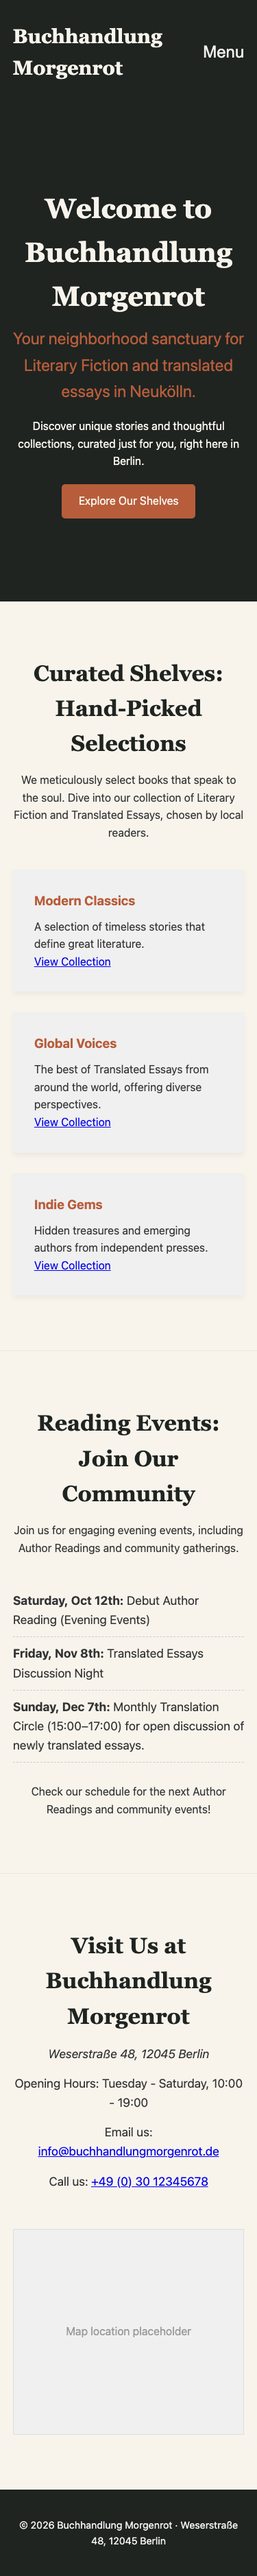
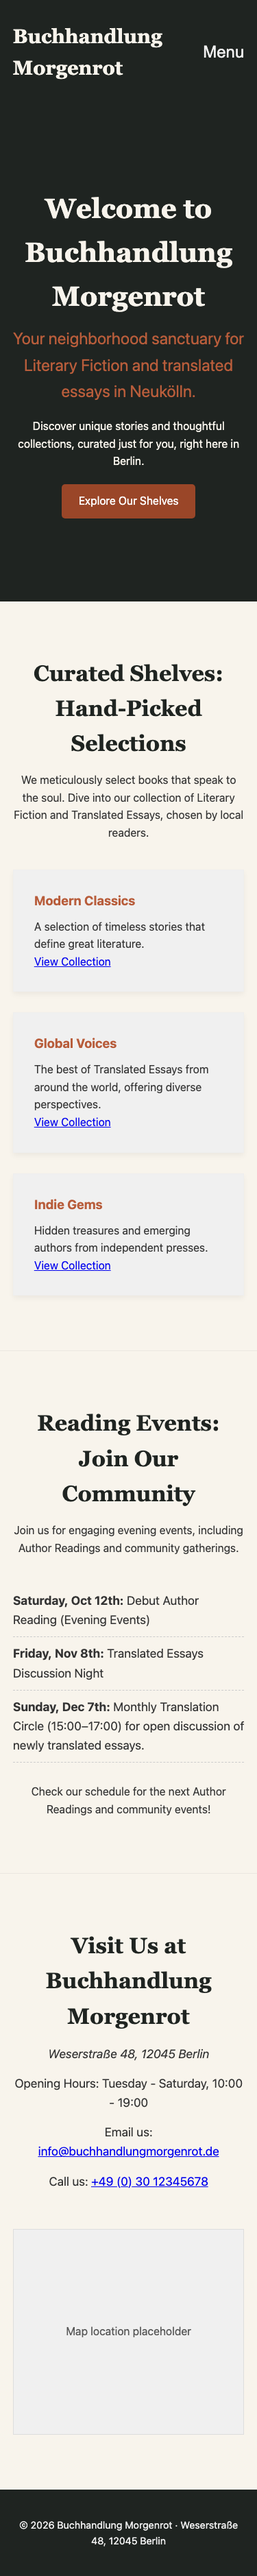
feat(a11y): add axe-core WCAG 2.1 AA Playwright gate and refresh showcase sites

Changed region(s): [[0.2347, 0.1869, 0.7627, 0.2181]]

diff --git a/sites/konditorei-flora-berlin/styles.css b/sites/konditorei-flora-berlin/styles.css
@@ -1,8 +1,10 @@
 /* Existing styles.css content is preserved as it is complete and applies theme colors. */
 :root {
   --color-primary: #8A9A5B; /* spec.theme.primary_color */
+  --color-primary-ink: #3D4A1F;
   --color-bg: #FAF9F6; /* spec.theme.background_color */
   --color-accent: #D4A373; /* spec.theme.accent_color */
+  --color-accent-ink: #6D4C24;
   --color-surface: #ffffff;
   --color-text: #1c1917;
   --color-muted: #57534e;
@@ -29,7 +31,7 @@ body {
 }
 
 h1, h2, h3 {
-  color: var(--color-primary);
+  color: var(--color-primary-ink);
   font-family: Georgia, "Times New Roman", serif;
   line-height: 1.25;
   margin-top: 0;
@@ -63,7 +65,7 @@ h1, h2, h3 {
 .brand {
   font-weight: 700;
   font-size: 1.15rem;
-  color: var(--color-primary);
+  color: var(--color-primary-ink);
   text-decoration: none;
 }
 
@@ -77,13 +79,13 @@ h1, h2, h3 {
 }
 
 .nav-list a {
-  color: var(--color-primary);
+  color: var(--color-primary-ink);
   text-decoration: none;
   font-weight: 500;
 }
 
 .nav-list a:hover {
-  color: var(--color-accent);
+  color: var(--color-accent-ink);
 }
 
 .section {
@@ -101,7 +103,7 @@ h1, h2, h3 {
   font-weight: 600;
   text-transform: uppercase;
   letter-spacing: 0.06em;
-  color: var(--color-accent);
+  color: var(--color-accent-ink);
   margin-bottom: 0.5rem;
 }
 
@@ -112,7 +114,7 @@ h1, h2, h3 {
 
 .btn-primary {
   display: inline-block;
-  background: var(--color-primary);
+  background: var(--color-primary-ink);
   color: #ffffff;
   padding: 0.75rem 1.35rem;
   border-radius: var(--radius);
@@ -169,7 +171,7 @@ h1, h2, h3 {
 }
 
 .site-footer {
-  background: var(--color-primary);
+  background: var(--color-primary-ink);
   color: #ffffff;
   padding: 2rem 0;
   margin-top: 2rem;

diff --git a/sites/konditorei-flora-berlin/index.html b/sites/konditorei-flora-berlin/index.html
@@ -104,11 +104,11 @@
           <p>Find Konditorei Flora at Kollwitzstraße 18. We are nestled in the vibrant heart of Prenzlauer Berg.</p>
         </div>
         <div class="cards-grid">
-          <article class="card"><h3 id="card-address">Kollwitzstraìee 18</h3><p>We are located at Kollwitzstraìee 18, a beautiful spot in Berlin.</p></article>
+          <article class="card"><h3 id="card-address">Kollwitzstraße 18</h3><p>Find our bakery at Kollwitzstraße 18, right off Kollwitzplatz in Berlin.</p></article>
           <article class="card"><h3 id="card-neighborhood">Prenzlauer Berg</h3><p>Come visit us in the charming and lively neighborhood of Prenzlauer Berg.</p></article>
         </div>
         <ul class="feature-list">
-          <li>Kollwitzstraìee 18</li>
+          <li>Kollwitzstraße 18</li>
           <li>Prenzlauer Berg, Berlin</li>
         </ul>
       </div>
@@ -133,7 +133,7 @@
 
   <footer class="site-footer" role="contentinfo">
     <div class="container footer-inner">
-      <p>&copy; 2026 Konditorei Flora Berlin · Kollwitzstraüee 18, 10405 Berlin-Prenzlauer Berg</p>
+      <p>&copy; 2026 Konditorei Flora Berlin · Kollwitzstraße 18, 10405 Berlin-Prenzlauer Berg</p>
     </div>
   </footer>
   <script src="script.js"></script>

diff --git a/sites/kaffeekultur-berlin/index.html b/sites/kaffeekultur-berlin/index.html
@@ -107,11 +107,11 @@
           <p>Find us at Oranienstraße 42, 10999 Berlin. We are located in the vibrant heart of Kreuzberg, ready to serve you.</p>
         </div>
         <div class="cards-grid">
-          <article class="card"><h3 id="keyword-address">Oranienstraìee 42</h3><p>Your address in Berlin.</p></article>
-          <article class="card"><h3 id="keyword-city">Berlin</h3><p>A hub of culture and coffee.</p></article>
+          <article class="card"><h3 id="keyword-address">Oranienstraße 42</h3><p>Your neighborhood roastery in Berlin-Kreuzberg.</p></article>
+          <article class="card"><h3 id="keyword-city">Berlin</h3><p>A hub of culture and specialty coffee.</p></article>
         </div>
         <ul class="feature-list">
-          <li>Oranienstraìee 42</li>
+          <li>Oranienstraße 42</li>
           <li>Berlin</li>
         </ul>
       </div>
@@ -158,7 +158,7 @@
 
   <footer class="site-footer">
     <div class="container footer-inner">
-      <p>&copy; 2026 Kaffeekultur Berlin · Oranienstraìee 42, 10999 Berlin-Kreuzberg</p>
+      <p>&copy; 2026 Kaffeekultur Berlin · Oranienstraße 42, 10999 Berlin-Kreuzberg</p>
     </div>
   </footer>
   <script src="script.js"></script>

diff --git a/sites/kiezgarten-kaffee/styles.css b/sites/kiezgarten-kaffee/styles.css
@@ -143,7 +143,7 @@ body {
 
 .note {
     font-style: italic;
-    color: #777;
+    color: #555555;
     margin-top: 1rem;
 }
 
@@ -160,7 +160,7 @@ body {
 
 .cta-button {
     background-color: var(--accent-color);
-    color: var(--primary-color);
+    color: #1E261C;
     border: 2px solid var(--accent-color);
 }
 
@@ -171,8 +171,8 @@ body {
 
 .secondary {
     background-color: transparent;
-    color: var(--accent-color);
-    border: 2px solid var(--accent-color);
+    color: var(--primary-color);
+    border: 2px solid #6E4A24;
 }
 
 .secondary:hover {

diff --git a/sites/buchhandlung-morgenrot/styles.css b/sites/buchhandlung-morgenrot/styles.css
@@ -187,7 +187,7 @@ body {
     display: flex;
     align-items: center;
     justify-content: center;
-    color: #999;
+    color: #555555;
 }
 
 .address, .hours, .contact-info {
@@ -202,8 +202,8 @@ body {
 .btn {
     display: inline-block;
     padding: 12px 25px;
-    background-color: var(--color-accent);
-    color: var(--color-background);
+    background-color: #9A4628;
+    color: #FFFFFF;
     text-decoration: none;
     border-radius: 5px;
     transition: background-color 0.3s;

diff --git a/AGENTS.md b/AGENTS.md
@@ -6,7 +6,7 @@ Static single-page websites generated, verified, and maintained by the local AI 
 
 - Monorepo of independent static websites under `sites/<site-slug>/`.
 - Every generated website uses plain semantic HTML5, modern CSS, and optional vanilla ES6 JavaScript (`index.html`, `styles.css`, optional `script.js`, `spec.json`, `evidence/desktop.png`, `evidence/mobile.png`).
-- Shared root tooling only: `@playwright/test` is pinned once in root `package.json`. Individual sites under `sites/` never contain their own `package.json` or `node_modules/`.
+- Shared root tooling only: `@playwright/test` and `@axe-core/playwright` are pinned once in root `package.json`. Individual sites under `sites/` never contain their own `package.json` or `node_modules/`.
 - GitHub Issues (`.github/ISSUE_TEMPLATE/`) and `factory:*` labels are the customer intake and human-in-the-loop interface.
 - `ai-factory` works exclusively in isolated git worktrees (`.worktrees/issue-<N>/` on branch `factory/issue-<N>`), never directly on `main`.
 
@@ -30,7 +30,7 @@ Use `task` for everything; logic lives in `scripts/`.
 4. No secrets in files, sites, commits, or PRs (`gitleaks` enforces this in pre-commit and CI).
 5. Pin every tool (`mise.toml`), npm package (`package.json` + `package-lock.json`), and GitHub Action (full commit SHA).
 6. Scripts follow `.claude/rules/scripts.md`: bash with `set -euo pipefail`, shellcheck clean, deterministic PASS/WARN/FAIL reporting.
-7. Playwright verifies navigation and footer content against `spec.json`, checks child-element overflow at desktop and mobile sizes, and supports `STRICT_COPY=1` to catch prompt leaks and stub cards.
+7. Playwright verifies navigation and footer content against `spec.json`, checks child-element overflow at desktop and mobile sizes, enforces WCAG 2.1 AA accessibility & color contrast via `@axe-core/playwright`, and supports `STRICT_COPY=1` to catch prompt leaks and stub cards.
 
 ## Review role
 

diff --git a/docs/adr/0003-wcag-accessibility-gates-with-axe-core.md b/docs/adr/0003-wcag-accessibility-gates-with-axe-core.md
@@ -1,0 +1,23 @@
+# 0003. WCAG accessibility gates with `@axe-core/playwright`
+
+## Status
+
+Accepted (amends [0001](0001-vanilla-static-stack-and-shared-playwright-harness.md) and [0002](0002-public-repo-governance-and-readonly-verification.md))
+
+## Date
+
+2026-11-25
+
+## Context
+
+The 8-gate Playwright verification suite checked HTML5 landmarks, navigation, footer, overflow, offline isolation, and strict-copy rules, but did not catch WCAG 2.1 AA accessibility or color-contrast failures (such as light text on terracotta/tan buttons or sage-green headings on cream backgrounds).
+
+## Decision
+
+- Pin `@axe-core/playwright` (`4.14.1`) once in root `package.json` and `package-lock.json` (never inside individual `sites/<slug>/` directories).
+- Add **Gate #9** to [tests/site.spec.mjs](../../tests/site.spec.mjs) running `AxeBuilder` with `wcag2a`, `wcag2aa`, `wcag21a`, and `wcag21aa` tags on every site check, failing with structured impact, rule ID, node selector, and remediation summary when any violation is found.
+- Remediate color-contrast violations and UTF-8 `ß` typos across the showcase sites (`buchhandlung-morgenrot`, `kaffeekultur-berlin`, `kiezgarten-kaffee`, `konditorei-flora-berlin`) and refresh their `evidence/{desktop,mobile}.png` screenshots.
+
+## Consequences
+
+- Both local `task ci` and `ai-factory`'s `RunTesterAgentActivity` automatically enforce WCAG 2.1 AA accessibility and 4.5:1 text contrast on every generated or modified site.

diff --git a/.claude/rules/sites.md b/.claude/rules/sites.md
@@ -9,5 +9,5 @@ paths:
 - Never place a `package.json`, `node_modules/`, or bundler config inside `sites/<slug>/`.
 - Never load external URLs (fonts, CDNs, images, analytics scripts). Use system font stacks, inline SVG, and local CSS.
 - Write authentic domain copy in `index.html`; never copy `spec.json` `section.purpose` instructions verbatim into visible `<p>` tags or duplicate `required_keywords` as stub cards.
-- Keep navigation links and footer copy aligned with `spec.json`; the Playwright harness verifies both against the rendered page.
+- Keep navigation links and footer copy aligned with `spec.json`, and ensure >= 4.5:1 WCAG AA text color contrast; the Playwright + `@axe-core/playwright` harness verifies both against the rendered page.
 - Every site keeps an up-to-date `spec.json` and `evidence/desktop.png` + `evidence/mobile.png`.

diff --git a/.claude/rules/playwright.md b/.claude/rules/playwright.md
@@ -10,4 +10,4 @@ paths:
 - Never hardcode business names or site-specific copy inside `tests/site.spec.mjs`.
 - Always block external network requests (`127.0.0.1` / `localhost` only) so offline/security sanity is enforced deterministically.
 - Keep `task test` read-only on `sites/<slug>/evidence/*.png` by default; create or overwrite evidence only when `WRITE_EVIDENCE=1` is set.
-- Verify `spec.navigation`, `spec.footer_text`, and child-element horizontal bounding-box overflow; run `STRICT_COPY=1` to reject leaked `section.purpose` prompt text or stub cards.
+- Verify `spec.navigation`, `spec.footer_text`, child-element horizontal bounding-box overflow, and WCAG 2.1 AA accessibility & color contrast (`@axe-core/playwright`); run `STRICT_COPY=1` to reject leaked `section.purpose` prompt text or stub cards.

diff --git a/README.md b/README.md
@@ -43,7 +43,7 @@ pre-commit install
 ```
 
 ```bash
-# Verify a single site across all 8 Playwright gates
+# Verify a single site across all 9 Playwright + axe-core WCAG gates
 SITE_SLUG=kaffeekultur-berlin task test
 
 # Preview a site locally in your browser
@@ -57,3 +57,4 @@ ALL_SITES=1 task ci
 
 - [0001. Vanilla static stack and shared Playwright harness](docs/adr/0001-vanilla-static-stack-and-shared-playwright-harness.md)
 - [0002. Public repository governance, `/sites/` loopback isolation, and read-only Playwright verification](docs/adr/0002-public-repo-governance-and-readonly-verification.md)
+- [0003. WCAG accessibility gates with `@axe-core/playwright`](docs/adr/0003-wcag-accessibility-gates-with-axe-core.md)

diff --git a/docs/adr/README.md b/docs/adr/README.md
@@ -2,3 +2,4 @@
 
 - [0001. Vanilla static stack and shared Playwright harness](0001-vanilla-static-stack-and-shared-playwright-harness.md)
 - [0002. Public repository governance, `/sites/` loopback isolation, and read-only Playwright verification](0002-public-repo-governance-and-readonly-verification.md)
+- [0003. WCAG accessibility gates with `@axe-core/playwright`](0003-wcag-accessibility-gates-with-axe-core.md)
